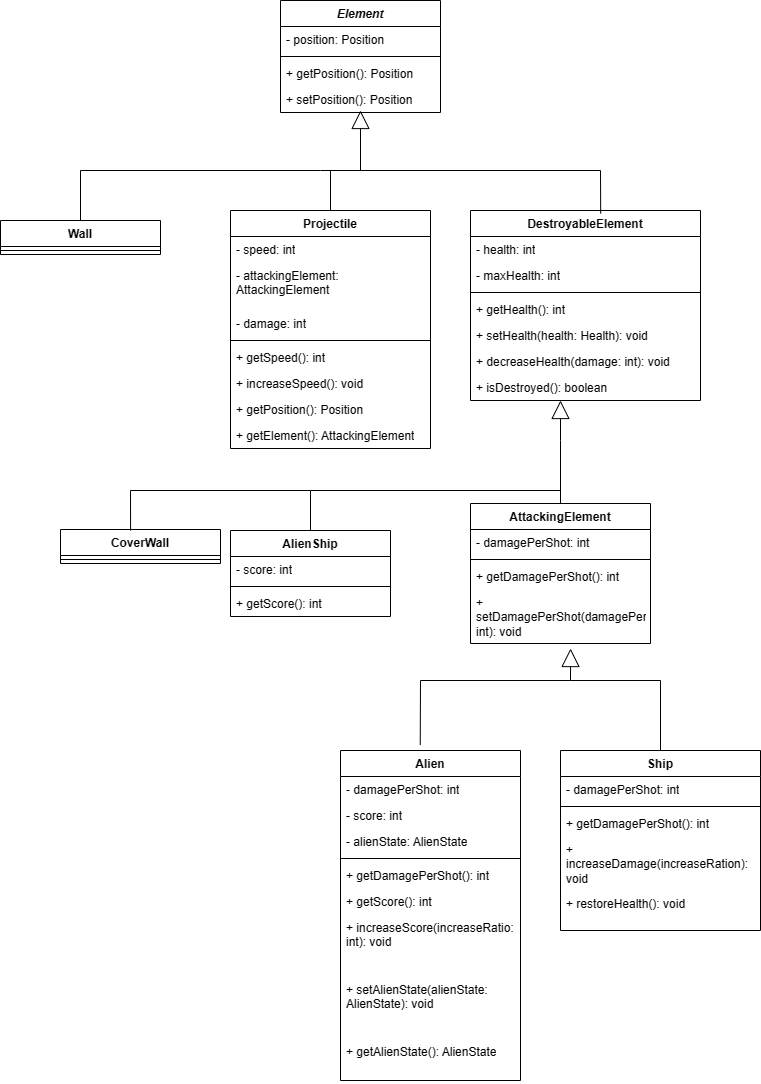
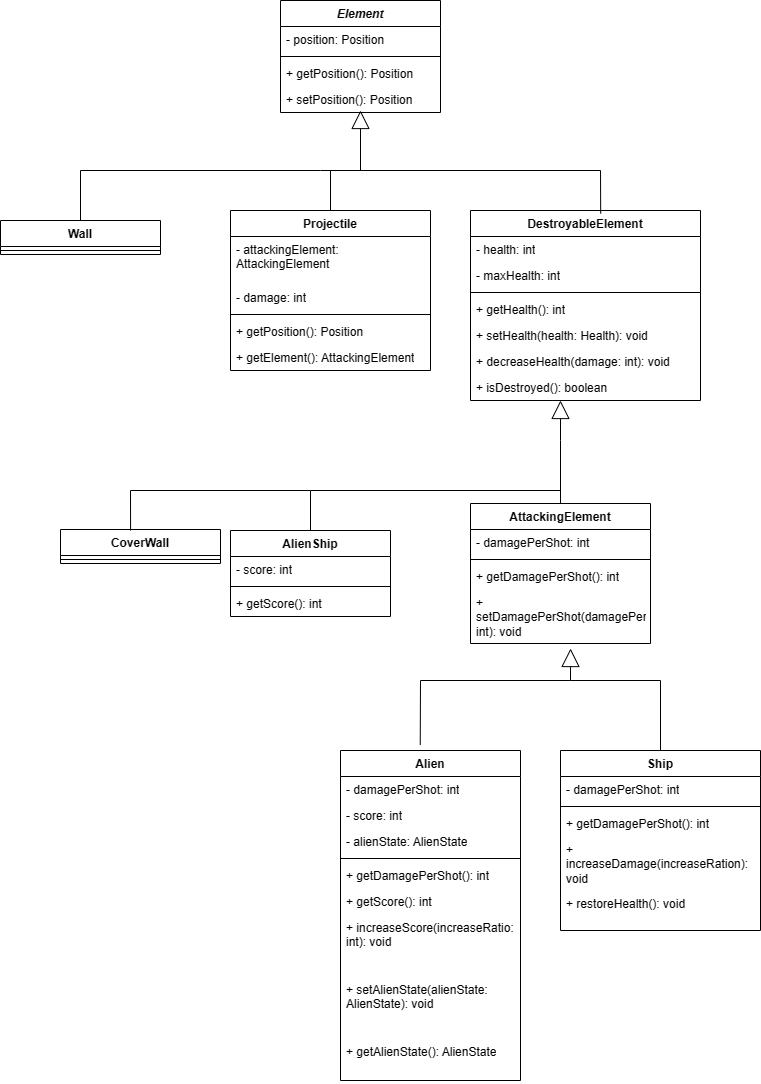
Added general UML and changed the other UMLs

Changed region(s): [[0.3022, 0.2131, 0.544, 0.4262]]

diff --git a/docs/README.md b/docs/README.md
@@ -87,7 +87,12 @@ This project was developed by:
 
   ![ScreenShots](ScreenShots/Leaderboard.png)
 
-  
+
+### UML With All The Implemented Features
+
+
+![General_UML](Images_UML/General_UML.drawio.png)
+
 
 ### PLANNED FEATURES
 
